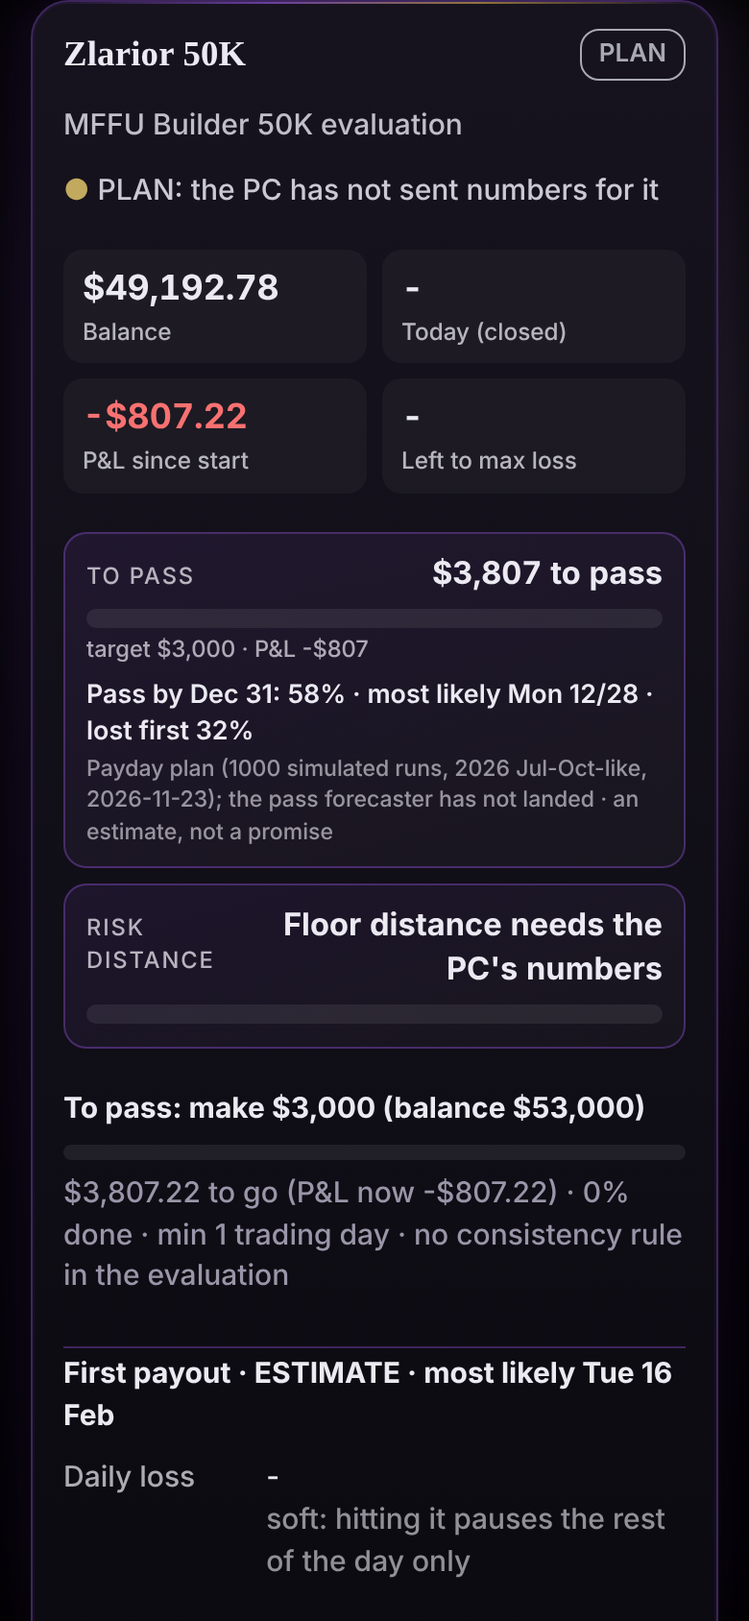
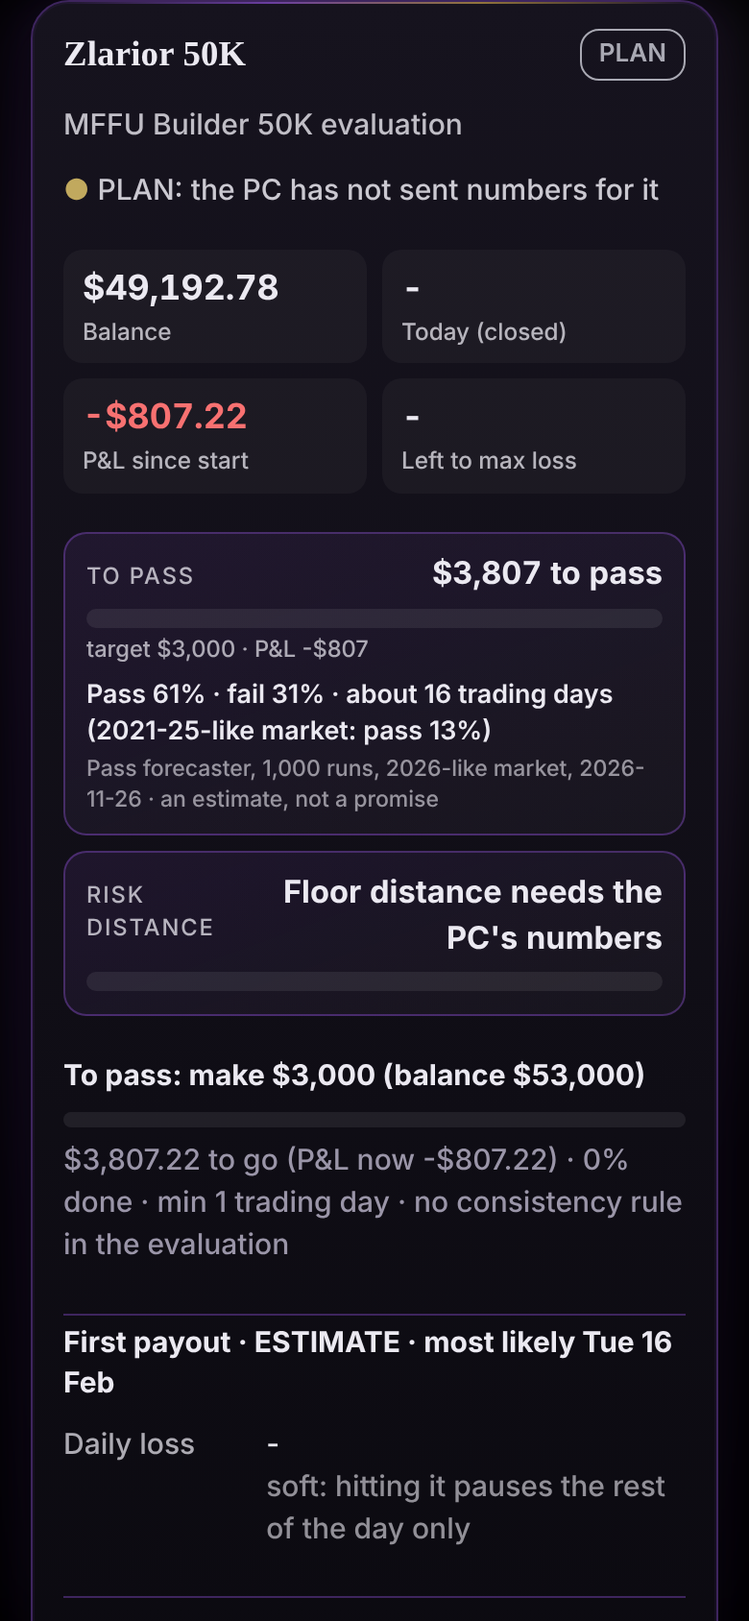
site5 on the real data: Strategy health reads research/health/bands.json (20-trade 2026 band p5/p50/p95 + the 2021-25 band + its live trades), the Money view reads research/forecast/forecast.json (pass / fail %, sessions, both markets) with size-aware account matching
- tools/build_money_health.py: from_research() normalises the study's shape (LIT / ATLAS; BLITZ stays off the Trading page)
- healthcore.js: a p5/p50/p95 band (cold = under halfway from p5 to the median, or 4 losses in a row), the band's newer live list wins
- moneyview.js: forecast rows matched by key / exact name / longest prefix of the same size and kind (Zlarior no longer grabs the 25K #2)
- tests: test_money_health 25/25 checks the published files against research/ (independent band count only while provisional)

Claude-Session: https://claude.ai/code/session_01EwJ4kRC4PSway2E9uGYpPe

Changed region(s): [[0.0615, 0.4005, 0.9231, 0.9242], [0.3385, 0.8934, 0.8923, 0.9858], [0.7385, 0.4005, 0.8615, 0.4313]]

diff --git a/tools/web_public/business/moneyview.js b/tools/web_public/business/moneyview.js
@@ -26,15 +26,34 @@
 
   /** the forecast row of one account: forecast.json {accounts: {key|name: {...}}} first, else payday.json rows[market].accounts */
   function forecastFor(a, fc, pd, market) {
-    const name = norm(a && a.name), key = String(a && a.key || '');
-    const pick = (rows) => {
+    const name = norm(a && a.name), key = String(a && a.key || ''), me = `${a && a.name || ''} ${a && a.plan || ''}`.toLowerCase();
+    const size = (t) => { const m = /(\d+)\s*k\b/.exec(t); return m ? m[1] : null; }, rapid = (t) => /rapid/.test(t);
+    const pick = (rows) => {                                 // best match: the key, the exact name, else the longest name prefix of the same size / kind
       if (!isObj(rows)) return null;
       if (key && isObj(rows[key])) return rows[key];
-      for (const r of Object.values(rows)) if (isObj(r) && norm(r.name) && (norm(r.name) === name || name.startsWith(norm(r.name)) || norm(r.name).startsWith(name))) return r;
-      return null;
+      let best = null, bs = 0;
+      for (const r of Object.values(rows)) {
+        if (!isObj(r)) continue;
+        const rn = norm(r.name), them = `${r.name || ''} ${r.plan || ''}`.toLowerCase().replace(/_/g, ' ');
+        if (!rn) continue;
+        if (size(me) && size(them) && size(me) !== size(them)) continue;
+        if (rapid(me) !== rapid(them)) continue;
+        if (r.stage && a && typeof a.funded === 'boolean' && (r.stage === 'funded') !== a.funded) continue;
+        const sc = rn === name ? 1000 : name.startsWith(rn) || rn.startsWith(name) ? 100 + rn.length : 0;
+        if (sc > bs) { bs = sc; best = r; }
+      }
+      return best;
     };
     const f = isObj(fc) ? pick(fc.accounts) : null;
     if (f) {
+      const mk = Object.keys(isObj(fc.markets) ? fc.markets : {}), main = isObj(f['2026-like']) ? '2026-like' : mk.find((k) => isObj(f[k])) || null;
+      if (main) {                                            // research/forecast/forecast.json (day-batch5): per market {pass_pct, fail_pct, pass_med_sessions, ...}
+        const M = f[main], refK = mk.find((k) => k !== main && isObj(f[k])) || null, R = refK ? f[refK] : null, pc = (v) => (num(v) === null ? null : num(v) / 100);
+        return { src: 'forecast', sample: !!fc.sample, market: main, ref: refK, made: String(fc.made || '').slice(0, 10), runs: num(fc.n_paths) || num(fc.runs),
+          p_pass: pc(M.pass_pct), p_fail: pc(M.fail_pct), days_med: num(M.pass_med_sessions), pass_med: null,
+          p_payout: pc(M.first_payout_pct), payout_sessions: num(M.first_payout_med_sessions), p_payout60: pc(M.first_payout_60_pct), p_lost: pc(M.lost_pct), payout_med: null, payout_usd: null,
+          ref_pass: R ? pc(R.pass_pct) : null, ref_payout: R ? pc(R.first_payout_pct) : null };
+      }
       return { src: 'forecast', sample: !!fc.sample, market: String(fc.market || ''), made: String(fc.made || '').slice(0, 10), runs: num(fc.runs) || num(f.runs),
         p_pass: num(f.p_pass), p_fail: num(f.p_fail), pass_med: f.pass_by || f.pass_med || null, days_med: num(f.days_med), days_p25: num(f.days_p25), days_p75: num(f.days_p75),
         p_payout: num(f.p_payout), payout_med: f.payout_by || f.payout_med || null, payout_usd: num(f.payout_usd) };
@@ -85,9 +104,9 @@
       const t = a.target, left = num(t.left), v = num(t.v), frac = num(t.progress);
       const f = F ? {
         line: F.src === 'forecast'
-          ? `Pass ${F.p_pass !== null ? Math.round(F.p_pass * 100) + '%' : '?'}${F.p_fail !== null ? ' · fail ' + Math.round(F.p_fail * 100) + '%' : ''}${F.days_med !== null ? ' · about ' + F.days_med + ' trading days' : ''}${F.pass_med ? ' · most likely ' + dayText(F.pass_med) : ''}`
+          ? `Pass ${F.p_pass !== null ? Math.round(F.p_pass * 100) + '%' : '?'}${F.p_fail !== null ? ' · fail ' + Math.round(F.p_fail * 100) + '%' : ''}${F.days_med !== null ? ' · about ' + Math.round(F.days_med) + ' trading days' : ''}${F.pass_med ? ' · most likely ' + dayText(F.pass_med) : ''}${F.ref && F.ref_pass !== null ? ` (${F.ref} market: pass ${Math.round(F.ref_pass * 100)}%)` : ''}`
           : `Pass by Dec 31: ${F.p_pass !== null ? Math.round(F.p_pass * 100) + '%' : '?'}${F.pass_med ? ' · most likely ' + dayText(F.pass_med) : ''}${F.p_fail !== null ? ' · lost first ' + Math.round(F.p_fail * 100) + '%' : ''}`,
-        src: F.src === 'forecast' ? `Pass forecaster${F.runs ? ', ' + F.runs.toLocaleString('en-US') + ' runs' : ''}${F.market ? ', ' + F.market : ''}${F.made ? ', ' + F.made : ''}` : `Payday plan (${F.runs || 1000} simulated runs, ${F.market}, ${F.made}); the pass forecaster has not landed`,
+        src: F.src === 'forecast' ? `Pass forecaster${F.runs ? ', ' + F.runs.toLocaleString('en-US') + ' runs' : ''}${F.market ? ', ' + F.market + (/like$/.test(F.market) ? ' market' : '') : ''}${F.made ? ', ' + F.made : ''}` : `Payday plan (${F.runs || 1000} simulated runs, ${F.market}, ${F.made}); the pass forecaster has not landed`,
         sample: F.sample, p: F.p_pass } : null;
       return { kind: 'pass', label: 'To pass', goal: v, left, frac: frac === null ? 0 : Math.max(0, Math.min(1, frac)), have: num(t.pnl),
         text: left === null ? 'Needs the PC\'s balance' : left <= 0 ? 'Target reached' : `${usd(left)} to pass`, sub: v !== null ? `target ${usd(v)} · P&L ${usd(t.pnl, true)}` : '', forecast: f, next: null };
@@ -98,7 +117,10 @@
       const prof = isObj(a.money) ? num(a.money.balance) : null;
       const left = plan !== null && prof !== null ? r2(Math.max(0, plan - prof)) : null;
       const ask = co && co.first_at_min ? min : max;
-      const f = F && F.payout_med ? { line: `First payout most likely ${dayText(F.payout_med)}${F.payout_usd !== null ? ' · about ' + usd(F.payout_usd) + ' to you' : ''}${F.p_payout !== null ? ' · ' + Math.round(F.p_payout * 100) + '% by Dec 31' : ''}`,
+      const f = F && F.src === 'forecast' && F.payout_sessions !== null && F.payout_sessions !== undefined
+        ? { line: `First payout ${F.p_payout !== null ? Math.round(F.p_payout * 100) + '%' : '?'} · about ${Math.round(F.payout_sessions)} trading days${F.p_lost !== null ? ' · lost first ' + Math.round(F.p_lost * 100) + '%' : ''}${F.ref && F.ref_payout !== null ? ` (${F.ref} market: ${Math.round(F.ref_payout * 100)}%)` : ''}`,
+          src: `Pass forecaster${F.runs ? ', ' + F.runs.toLocaleString('en-US') + ' runs' : ''}, ${F.market} market${F.made ? ', ' + F.made : ''}`, sample: F.sample, p: F.p_payout }
+        : F && F.payout_med ? { line: `First payout most likely ${dayText(F.payout_med)}${F.payout_usd !== null ? ' · about ' + usd(F.payout_usd) + ' to you' : ''}${F.p_payout !== null ? ' · ' + Math.round(F.p_payout * 100) + '% by Dec 31' : ''}`,
         src: F.src === 'forecast' ? 'Pass forecaster' : `Payday plan (${F.runs || 1000} simulated runs, ${F.market}, ${F.made})`, sample: F.sample, p: F.p_payout } : null;
       return { kind: 'payout', label: 'To payout', goal: plan, left, frac: plan && prof !== null ? Math.max(0, Math.min(1, prof / plan)) : 0, have: prof,
         text: prof === null ? 'Needs the PC\'s balance' : num(p.request_today) > 0 ? `Payout ready: ${usd(p.request_today)}` : `${usd(left)} to the ${usd(ask)} payout`,

diff --git a/tools/web_public/trading/healthcore.js b/tools/web_public/trading/healthcore.js
@@ -23,21 +23,33 @@
   }
 
   /** one bot's health: its last `window` live trades vs the backtest band of that many trades */
-  function botHealth(id, name, alias, band, rows) {
+  /** the band's own live trades (research/health/bands.json carries the newest real ones) win over the site's ledger when it has more */
+  function liveOf(band, rows) {
+    const L = band && Array.isArray(band.live) ? band.live.filter((x) => isObj(x) && num(x.r) !== null) : [];
+    if (L.length < rows.length) return rows;
+    return L.map((x, i) => ({ t: i, r: num(x.r), usd: num(x.usd), day: String(x.day || '').slice(0, 10) })).reverse();   // the file lists oldest first
+  }
+  function botHealth(id, name, alias, band, rows0) {
+    const rows = liveOf(band, rows0);
     const w = band ? num(band.window) || 10 : 10, last = rows.slice(0, w), n = last.length;
     const avg = n ? last.reduce((s, x) => s + x.r, 0) / n : null, win = n ? (last.filter((x) => x.r > 0).length / n) * 100 : null;
     const sum = last.reduce((s, x) => s + (x.usd || 0), 0);
     let streak = 0; for (const x of rows) { if (x.r < 0) streak++; else break; }
     const q = band && isObj(band.avg_r) ? band.avg_r : null, P = (k) => (q ? num(q[k]) : null);
     const sMax = band ? num(band.streak_p95) : null, sTyp = band ? num(band.streak_p75) : null;
+    // a band with only p5 / p50 / p95 (research/health/bands.json): 'cold' = the lower half of the way from the worst 5% to the median,
+    // or 4+ losses in a row; 'normal' = anything else inside the band
+    const lowQ = q && num(q.p25) === null && num(q.p5) !== null && num(q.p50) !== null ? (num(q.p5) + num(q.p50)) / 2 : null;
     let word, level, why;
     if (!q) { word = 'no band yet'; level = 'none'; why = 'The backtest band for this bot has not been measured yet.'; }
     else if (n < MIN_N) { word = 'too few trades'; level = 'none'; why = `Only ${n} live trade${n === 1 ? '' : 's'} so far: at least ${MIN_N} are needed before saying anything (the band is for ${w}).`; }
     else if (avg < P('p5') || (sMax !== null && streak > sMax)) { word = 'outside the band'; level = 'bad'; why = avg < P('p5') ? `The last ${n} average ${fmtR(avg)} a trade, under the backtest's worst 5% of ${w}-trade stretches (${fmtR(P('p5'))}).` : `${streak} losses in a row: longer than 95% of the backtest's streaks (${sMax}).`; }
     else if (avg > P('p95')) { word = 'outside the band'; level = 'hot'; why = `The last ${n} average ${fmtR(avg)}, above the backtest's best 5% (${fmtR(P('p95'))}): luck runs out, do not size up.`; }
-    else if (avg < P('p25') || (sTyp !== null && streak > sTyp && streak >= 3)) { word = 'cold streak'; level = 'warn'; why = avg < P('p25') ? `The last ${n} average ${fmtR(avg)}: in the band but in its weaker quarter (under ${fmtR(P('p25'))}). The backtest had stretches like this.` : `${streak} losses in a row: inside the backtest's range (its 95% mark is ${sMax}).`; }
-    else { word = 'normal'; level = 'ok'; why = `The last ${n} average ${fmtR(avg)} a trade, inside the backtest's middle half (${fmtR(P('p25'))} to ${fmtR(P('p75'))}).`; }
-    return { id, name, alias, word, level, why, n, window: w, avg, win, usd: n ? sum : null, streak, band: q ? { p5: P('p5'), p25: P('p25'), p50: P('p50'), p75: P('p75'), p95: P('p95') } : null,
+    else if (lowQ !== null && (avg < lowQ || streak >= 4)) { word = 'cold streak'; level = 'warn'; why = avg < lowQ ? `The last ${n} average ${fmtR(avg)}: inside the band but in its weak part (under ${fmtR(lowQ)}, halfway from the worst 5% to the median ${fmtR(P('p50'))}). The backtest had stretches like this.` : `${streak} losses in a row, the average still inside the band.`; }
+    else if (lowQ === null && (avg < P('p25') || (sTyp !== null && streak > sTyp && streak >= 3))) { word = 'cold streak'; level = 'warn'; why = avg < P('p25') ? `The last ${n} average ${fmtR(avg)}: in the band but in its weaker quarter (under ${fmtR(P('p25'))}). The backtest had stretches like this.` : `${streak} losses in a row: inside the backtest's range (its 95% mark is ${sMax}).`; }
+    else { word = 'normal'; level = 'ok'; why = lowQ !== null ? `The last ${n} average ${fmtR(avg)} a trade, inside the backtest's band (median ${fmtR(P('p50'))}).` : `The last ${n} average ${fmtR(avg)} a trade, inside the backtest's middle half (${fmtR(P('p25'))} to ${fmtR(P('p75'))}).`; }
+    const ref = band && isObj(band.ref) && num(band.ref.p5) !== null ? { span: String(band.ref.span || ''), p5: num(band.ref.p5), p50: num(band.ref.p50), p95: num(band.ref.p95) } : null;
+    return { id, name, alias, word, level, why, n, window: w, avg, win, usd: n ? sum : null, streak, ref, band: q ? { p5: P('p5'), p25: P('p25'), p50: P('p50'), p75: P('p75'), p95: P('p95') } : null,
       bandN: band ? num(band.n_backtest) : null, span: band ? String(band.span || '') : '', last: rows[0] ? rows[0].day : null,
       line: n ? `Last ${n} live: ${fmtR(avg)} avg · win ${Math.round(win)}% · ${usd(sum)}` : 'No live trade yet' };
   }
@@ -46,7 +58,7 @@
   function health(bands, file) {
     const B = isObj(bands) && isObj(bands.bots) ? bands.bots : {};
     return { bots: BOTS.map(([id, name, alias]) => botHealth(id, name, alias, isObj(B[id]) ? B[id] : null, liveTrades(file, id))),
-      src: isObj(bands) ? String(bands.src || '') : '', made: isObj(bands) ? String(bands.made || '').slice(0, 10) : '', provisional: !!(isObj(bands) && bands.provisional), sample: !!(isObj(bands) && bands.sample) };
+      window: isObj(bands) ? num(bands.window) : null, src: isObj(bands) ? String(bands.src || '') : '', made: isObj(bands) ? String(bands.made || '').slice(0, 10) : '', provisional: !!(isObj(bands) && bands.provisional), sample: !!(isObj(bands) && bands.sample) };
   }
 
   const api = { health, liveTrades, BOTS, MIN_N, fmtR };

diff --git a/tools/web_public/trading/health.js b/tools/web_public/trading/health.js
@@ -12,11 +12,12 @@
     if (!b.band) { box.classList.add('none'); box.setAttribute('aria-label', 'no band yet'); return box; }
     const lo = Math.min(b.band.p5, b.avg ?? b.band.p5) - 0.15, hi = Math.max(b.band.p95, b.avg ?? b.band.p95) + 0.15, x = (v) => ((v - lo) / (hi - lo)) * 100 + '%';
     const full = el('i', 'full'); full.style.left = x(b.band.p5); full.style.right = 'calc(100% - ' + x(b.band.p95) + ')'; box.append(full);
-    const mid = el('i', 'mid'); mid.style.left = x(b.band.p25); mid.style.right = 'calc(100% - ' + x(b.band.p75) + ')'; box.append(mid);
+    if (b.band.p25 !== null && b.band.p75 !== null) { const mid = el('i', 'mid'); mid.style.left = x(b.band.p25); mid.style.right = 'calc(100% - ' + x(b.band.p75) + ')'; box.append(mid); }
+    else if (b.band.p50 !== null) { const md = el('i', 'med'); md.style.left = x(b.band.p50); box.append(md); }
     const zero = el('i', 'zero'); zero.style.left = x(0); box.append(zero);
     if (b.avg !== null) { const m = el('i', 'live ' + b.level); m.style.left = x(b.avg); box.append(m); }
     box.setAttribute('aria-label', `backtest band ${H.fmtR(b.band.p5)} to ${H.fmtR(b.band.p95)}, live ${H.fmtR(b.avg)}`);
-    const sc = el('div', 'hb-sc'); sc.append(el('span', null, H.fmtR(b.band.p5)), el('span', null, 'middle half ' + H.fmtR(b.band.p25) + ' to ' + H.fmtR(b.band.p75)), el('span', null, H.fmtR(b.band.p95)));
+    const sc = el('div', 'hb-sc'); sc.append(el('span', null, H.fmtR(b.band.p5)), el('span', null, b.band.p25 !== null ? 'middle half ' + H.fmtR(b.band.p25) + ' to ' + H.fmtR(b.band.p75) : 'median ' + H.fmtR(b.band.p50)), el('span', null, H.fmtR(b.band.p95)));
     const w = el('div'); w.append(box, sc); return w;
   }
   async function draw() {
@@ -27,11 +28,12 @@
       const row = el('div', 'hb ' + b.level); row.dataset.bot = b.id; row.dataset.word = b.word;
       const top = el('div', 'hb-top'); top.append(el('b', null, b.name), el('span', 'hb-w ' + b.level, b.word.toUpperCase())); row.append(top);
       row.append(el('p', 'hb-line', b.line), bandBar(b), el('p', 'hb-why', b.why));
+      if (b.ref) row.append(el('p', 'hb-ref', `In a ${b.ref.span}-like market the band was ${H.fmtR(b.ref.p5)} to ${H.fmtR(b.ref.p95)} (median ${H.fmtR(b.ref.p50)}).`));
       list.append(row);
     }
     const s = document.getElementById('healthSrc');
-    s.textContent = (M.sample ? 'SAMPLE · ' : '') + (M.provisional ? 'Band: PROVISIONAL, from the 2026 backtest trades in this page\'s file (the health study has not landed). ' : 'Band: ' + M.src + (M.made ? ' (' + M.made + '). ' : '. '))
-      + 'Live = the PC\'s real MFFU trades. Words: normal = inside the middle half; cold streak = the weaker quarter or a longer losing run; outside the band = beyond the backtest\'s 5% tails. Research only: nothing here stops or changes a bot.';
+    s.textContent = (M.sample ? 'SAMPLE · ' : '') + (M.provisional ? 'Band: PROVISIONAL, from the 2026 backtest trades in this page\'s file (the health study has not landed). ' : 'Band: the health study (' + M.src + (M.made ? ', ' + M.made : '') + '), every ' + (M.window || 10) + '-trade stretch of the 2026 backtest. ')
+      + 'Live = the PC\'s real MFFU trades. Words: normal = inside the band; cold streak = its weak part or a long losing run; outside the band = beyond the backtest\'s 5% tails. Research only: nothing here stops or changes a bot.';
     card.dataset.ready = '1';
   }
   if (document.readyState === 'loading') document.addEventListener('DOMContentLoaded', draw); else draw();

diff --git a/tools/web_public/trading/index.html b/tools/web_public/trading/index.html
@@ -36,7 +36,7 @@
 <script src="../olympus/gate-nav.js?v=g14" defer></script>
 <link rel="prefetch" href="../olympus/sfx.js?v=s4" as="script"><!-- the sound engine (32 KB gzipped) is not in the deferred chain the page waits on: olympus.js loads it after the page has loaded (its sound bed) or on the first cue -->
 <script>(function () { var r = document.documentElement.style; r.setProperty('--oly-accent', '#c8a24a'); r.setProperty('--oly-accent-rgb', '200, 162, 74'); })();</script>
-<link rel="stylesheet" href="trading.css?v=7">
+<link rel="stylesheet" href="trading.css?v=8">
 <link rel="stylesheet" href="../nqdeep.css?v=2">
 <link rel="stylesheet" href="../nq/nqdesk.css?v=11">
 <link rel="stylesheet" href="../nq/payready.css?v=2">
@@ -83,7 +83,7 @@
   <!-- STRATEGY HEALTH (day-site5): each bot's live results vs its backtest band, in plain words (trading/health.js + healthcore.js) -->
   <section class="ag-card card" id="healthCard" aria-labelledby="healthH">
     <div class="row"><h2 id="healthH">Strategy health</h2></div>
-    <p class="note">Is each bot trading like its backtest? Its last 10 real trades against every 10-trade stretch of the backtest.</p>
+    <p class="note">Is each bot trading like its backtest? Its newest real trades against every stretch of the same length in its 2026 backtest.</p>
     <div id="healthList" class="hlist"><p class="note">Loading...</p></div>
     <p class="note hsrc" id="healthSrc"></p>
   </section>
@@ -203,8 +203,8 @@
 <script src="../business/payoutcoach.js?v=4"></script>
 <script src="../nqdeep.js?v=1" defer></script>
 <script type="module" src="trading.js?v=20" async></script><!-- async: runs as soon as it and its data are in, not after every deferred kit script (perf) -->
-<script src="healthcore.js?v=1" defer></script>
-<script src="health.js?v=1" defer></script>
+<script src="healthcore.js?v=2" defer></script>
+<script src="health.js?v=3" defer></script>
 <script src="panelfx.js?v=2" data-look="night" data-burst="1" defer></script><!-- owner 2026-11-20: 3D + effects, after the content -->
 </body>
 </html>

diff --git a/tools/web_public/trading/trading.css b/tools/web_public/trading/trading.css
@@ -176,3 +176,5 @@ main#app .ag-card .note { font-size: 0.9375rem; }
 .hb-bar i.live.ok { background: #77db89; box-shadow: 0 0 10px rgba(119,219,137,.8); } .hb-bar i.live.bad { background: #ef4444; box-shadow: 0 0 10px rgba(239,68,68,.8); }
 .hb-sc { display: flex; justify-content: space-between; font-size: .7rem; opacity: .65; font-variant-numeric: tabular-nums; }
 .hsrc { font-size: .74rem; opacity: .7; }
+.hb-bar i.med { width: 2px; margin-left: -1px; top: 2px; bottom: 2px; background: rgba(218,203,240,.85); }
+.hb-ref { margin: 4px 0 0; font-size: .76rem; opacity: .6; }

diff --git a/tools/web_public/business/mffu.html b/tools/web_public/business/mffu.html
@@ -127,7 +127,7 @@
 <script src="mffucenter.js?v=3"></script>
 <script src="../edge_chip.js?v=1"></script>
 <script src="../nqdeep.js?v=1"></script>
-<script src="moneyview.js?v=1"></script>
+<script src="moneyview.js?v=2"></script>
 <script src="mffu.js?v=7"></script>
 <script src="../olympus/nqfx.js?v=n5" defer></script>
 <script src="../trading/panelfx.js?v=2" data-look="night" defer></script><!-- owner 2026-11-20: 3D + effects, after the content -->

diff --git a/tests/test_money_health.py b/tests/test_money_health.py
@@ -76,21 +76,35 @@ o.h = { normal: w([1, -1, 2, 0.5, 1, -1, 1.5, 0.2, 0.8, 1]), cold: w([1, -1, -1,
   hot: w([3, 4, 2, 3, 2.5, 1, 3, 2, 4, 3]), few: w([1, -1]), streak: w([2, 3, 2, 1.5, 2, -1, -1, -1, -1, -1, -1, -1]), noband: H.health({}, mk([1, 1, 1, 1, 1])).bots[0].word };
 o.real = H.health(bands, file).bots.map((b) => [b.id, b.word, b.n]);
 o.liveOnly = H.liveTrades({ trades: [{ bot: 'LIT', src: 'backtest', r: 1, t: 1 }, { bot: 'LIT', src: 'paper', r: 1, t: 2 }, { bot: 'LIT', src: 'live', r: -1, t: 3 }, { bot: 'ATLAS', src: 'live', r: 1, t: 4 }] }, 'lit').length;
-// the band, counted again here (independent of the builder)
-o.indep = ['lit', 'atlas'].map((bot) => {
+// the real published files (research/health/bands.json, research/forecast/forecast.json via the builder) or the provisional band
+const FCR = (() => { try { return JSON.parse(fs.readFileSync('%(fcpub)s', 'utf8')); } catch (e) { return null; } })();
+const acc = [{ key: 'x', name: 'Zlarior 50K', plan: 'MFFU Builder 50K evaluation', funded: false }, { key: 'y', name: 'Zlarior 25K #2', plan: 'MFFU Builder 25K evaluation', funded: false },
+  { key: 'r', name: 'Rapid EOD 25K', plan: 'MFFU Rapid EOD 25K evaluation', funded: false }, { key: 'a', name: 'ATLAS 25K', plan: 'MFFU Builder 25K sim funded', funded: true }];
+o.fcReal = FCR ? acc.map((a) => { const F = MV.forecastFor(a, FCR, pd); return F && [F.src, F.p_pass, F.days_med, F.p_payout, F.payout_sessions, F.ref_pass]; }) : null;
+o.fcLine = FCR ? MV.gauge({ ...evalA, plan: 'MFFU Builder 50K evaluation', funded: false }, { today: '2026-11-26', payday: pd, forecast: FCR }).forecast : null;
+o.fcFund = FCR ? MV.gauge({ ...funded({ coach: coach({}) }), plan: 'MFFU Builder 25K sim funded', funded: true }, { today: '2026-11-26', payday: pd, forecast: FCR }).forecast : null;
+o.fcRaw = FCR ? Object.fromEntries(Object.entries(FCR.accounts).map(([k, v]) => [k, v['2026-like'] || null])) : null;
+o.bandsProv = !!bands.provisional; o.bandsWin = bands.window;
+o.bandsPub = ['lit', 'atlas'].map((b) => [bands.bots[b].n_backtest, bands.bots[b].avg_r.p5, bands.bots[b].avg_r.p50, bands.bots[b].avg_r.p95, (bands.bots[b].live || []).length]);
+o.realH = H.health(bands, file).bots.map((b) => [b.id, b.word, b.n, b.ref ? b.ref.span : null]);
+o.indep = bands.provisional ? ['lit', 'atlas'].map((bot) => {
   const rs = file.trades.filter((t) => String(t.bot).toLowerCase() === bot && t.src === 'backtest' && typeof t.r === 'number').sort((a, b) => a.t - b.t).map((t) => t.r);
   const av = []; for (let i = 0; i + 10 <= rs.length; i++) av.push(rs.slice(i, i + 10).reduce((s, x) => s + x, 0) / 10);
   av.sort((a, b) => a - b); const q = (p) => { const k = (av.length - 1) * p; const lo = Math.floor(k), hi = Math.min(lo + 1, av.length - 1); return av[lo] + (av[hi] - av[lo]) * (k - lo); };
   return [rs.length, Math.round(q(0.05) * 1000) / 1000, Math.round(q(0.5) * 1000) / 1000, Math.round(q(0.95) * 1000) / 1000];
-});
-o.bandsPub = ['lit', 'atlas'].map((b) => [bands.bots[b].n_backtest, bands.bots[b].avg_r.p5, bands.bots[b].avg_r.p50, bands.bots[b].avg_r.p95]);
+}) : null;
+// a p5 / p50 / p95 band (the health study's shape): cold = under halfway from p5 to the median
+const b3 = { bots: { lit: { window: 20, avg_r: { p5: 0.14, p50: 0.61, p95: 1.54 } } } };
+const w3 = (rs) => { const b = H.health(b3, mk(rs)).bots[0]; return b.word; };
+o.h3 = [w3([1, 0.5, 0.8, 0.6, 0.7]), w3([0.3, 0.2, 0.4, 0.3, 0.2]), w3([-1, -1, 0.5, -0.5, 0.2]), w3([3, 2, 2.5, 2, 3]), w3([2, 2, 1, -1, -1, -1, -1])];
+o.bandLive = H.health({ bots: { lit: { window: 20, avg_r: { p5: 0.14, p50: 0.61, p95: 1.54 }, live: [{ day: '2026-11-01', r: 1 }, { day: '2026-11-02', r: 1 }, { day: '2026-11-03', r: 1 }] } } }, mk([1])).bots[0].n;
 console.log(JSON.stringify(o));
 """
 
 
 def node():
     js = NODE % {"mv": os.path.join(PUB, "business", "moneyview.js"), "hc": os.path.join(PUB, "trading", "healthcore.js"), "pd": os.path.join(PUB, "business", "payday.json"),
-                 "fc": json.dumps(FC_FIXTURE), "tr": os.path.join(PUB, "trading", "trades.json"), "bands": os.path.join(PUB, "trading", "bands.json")}
+                 "fc": json.dumps(FC_FIXTURE), "tr": os.path.join(PUB, "trading", "trades.json"), "bands": os.path.join(PUB, "trading", "bands.json"), "fcpub": os.path.join(PUB, "business", "forecast.json")}
     r = subprocess.run(["node", "-e", js], capture_output=True, text=True, timeout=60)
     try:
         o = json.loads(r.stdout.strip().splitlines()[-1])
@@ -122,8 +136,30 @@ def node():
           h["normal"][0] == "normal" and h["cold"][0:2] == ["cold streak", "warn"] and h["out"][0:2] == ["outside the band", "bad"] and h["hot"][0:2] == ["outside the band", "hot"]
           and h["few"][0] == "too few trades" and h["streak"][0] == "outside the band" and h["streak"][4] == 7 and o["h"]["noband"] == "no band yet", h)
     check("n. health counts only the real (live) trades of that bot", o["liveOnly"] == 1, o["liveOnly"])
-    check("n. today's real health: LIT 2 and ATLAS 3 live trades -> 'too few trades' (honest)", o["real"] == [["lit", "too few trades", 2], ["atlas", "too few trades", 3]], o["real"])
-    check("n. the published band = an independent count of every 10-trade backtest stretch (n, p5, p50, p95)", all(a[0] == b[0] and all(abs(x - y) <= 0.002 for x, y in zip(a[1:], b[1:])) for a, b in zip(o["indep"], o["bandsPub"])), (o["indep"], o["bandsPub"]))
+    research = os.path.join(ROOT, "research", "health", "bands.json")
+    if os.path.exists(research):
+        R = json.load(open(research, encoding="utf-8"))
+        want = [[R["bots"][k]["bands"]["2026"]["trades"], R["bots"][k]["bands"]["2026"]["p5"], R["bots"][k]["bands"]["2026"]["p50"], R["bots"][k]["bands"]["2026"]["p95"], len(R["bots"][k]["live"]["trades"])] for k in ("LIT", "ATLAS")]
+        check("n. the published band = research/health/bands.json (2026: trades, p5 / p50 / p95, its live trades), not provisional", not o["bandsProv"] and o["bandsPub"] == want and o["bandsWin"] == R["window"], (o["bandsPub"], want))
+        zones = [R["bots"][k]["live"]["zone"] for k in ("LIT", "ATLAS")]
+        check("n. today's real health agrees with the study: < 5 live trades = 'too few trades' (LIT 2, ATLAS 4), the 2021-25 band rides along",
+              [x[1] for x in o["realH"]] == ["too few trades" if "too few" in z else x[1] for z, x in zip(zones, o["realH"])] and [x[2] for x in o["realH"]] == [r[4] for r in want]
+              and all(x[3] == "2021-25" for x in o["realH"]), (o["realH"], zones))
+    else:
+        check("n. the published band = an independent count of every 10-trade backtest stretch (n, p5, p50, p95)", o["bandsProv"] and o["indep"] is not None
+              and all(a[0] == b[0] and all(abs(x - y) <= 0.002 for x, y in zip(a[1:4], b[1:4])) for a, b in zip(o["indep"], o["bandsPub"])), (o["indep"], o["bandsPub"]))
+    check("n. a p5 / p50 / p95 band: normal, cold (under halfway to the median), outside (bad), outside (hot), cold (4 losses in a row); the band's own live list wins when longer",
+          o["h3"] == ["normal", "cold streak", "outside the band", "outside the band", "cold streak"] and o["bandLive"] == 3, (o["h3"], o["bandLive"]))
+    fr = os.path.join(ROOT, "research", "forecast", "forecast.json")
+    if os.path.exists(fr):
+        raw = o["fcRaw"]
+        check("n. the real forecast (research/forecast/forecast.json): each card finds ITS row (50K -> zlarior, 25K #2 -> fresh25, Rapid -> rapid1, ATLAS funded -> atlas)",
+              o["fcReal"] and [x[1] for x in o["fcReal"][:3]] == [round(raw[k]["pass_pct"] / 100, 6) if raw[k] else None for k in ("zlarior", "fresh25", "rapid1")]
+              and all(x[0] == "forecast" for x in o["fcReal"]) and abs(o["fcReal"][3][3] - raw["atlas"]["first_payout_pct"] / 100) < 1e-9 and o["fcReal"][3][4] == raw["atlas"]["first_payout_med_sessions"], (o["fcReal"], raw))
+        check("n. the real forecast lines: 'Pass 61% · fail 31% · about 16 trading days (2021-25-like market: pass 13%)'; ATLAS 'First payout 82% · about 22 trading days · lost first 10%'",
+              o["fcLine"]["line"].startswith("Pass ") and "trading days" in o["fcLine"]["line"] and "2021-25-like market: pass" in o["fcLine"]["line"] and "Pass forecaster" in o["fcLine"]["src"]
+              and o["fcFund"]["line"].startswith("First payout ") and "lost first" in o["fcFund"]["line"], (o["fcLine"], o["fcFund"]))
+
 
 
 class _Quiet(http.server.SimpleHTTPRequestHandler):
@@ -150,7 +186,7 @@ const [, , BASE, SHOTS] = process.argv; const out = {};
     ({ p, ctx } = await page('/trading/'));
     await p.waitForFunction(() => document.getElementById('healthCard') && document.getElementById('healthCard').dataset.ready === '1', null, { timeout: 30000 });
     out.health = await p.evaluate(() => ({ rows: [...document.querySelectorAll('#healthList .hb')].map((r) => r.dataset.bot + ':' + r.dataset.word), src: document.getElementById('healthSrc').textContent,
-      bars: document.querySelectorAll('#healthList .hb-bar i.mid').length, live: document.querySelectorAll('#healthList .hb-bar i.live').length, wide: document.documentElement.scrollWidth > innerWidth + 1 }));
+      bars: document.querySelectorAll('#healthList .hb-bar i.mid, #healthList .hb-bar i.med').length, live: document.querySelectorAll('#healthList .hb-bar i.live').length, wide: document.documentElement.scrollWidth > innerWidth + 1 }));
     if (SHOTS) { await p.evaluate(() => { const e = document.getElementById('healthCard'); window.scrollTo(0, e.getBoundingClientRect().top + scrollY - 10); }); await p.waitForTimeout(500); await p.screenshot({ path: SHOTS + '/12_strategy_health.png' }); }
     await ctx.close();
   } catch (e) { out.fatal = String(e && e.stack || e).slice(0, 500); }
@@ -187,8 +223,8 @@ def browser():
           any("Payday plan" in m["fc"] or "forecaster" in m["fc"] for m in M.get("mv", [])) and (not any(m["g"] == "payout" for m in M.get("mv", [])) or any(m["next"] for m in M["mv"] if m["g"] == "payout"))
           and M.get("wide") is False, M)
     T = o.get("health") or {}
-    check("b. Trading: the Strategy health card, LIT + ATLAS 'too few trades' today, the band drawn with the live marker, the PROVISIONAL source said",
-          T.get("rows") == ["lit:too few trades", "atlas:too few trades"] and T.get("bars") == 2 and T.get("live") == 2 and "PROVISIONAL" in T.get("src", "") and T.get("wide") is False, T)
+    check("b. Trading: the Strategy health card, LIT + ATLAS 'too few trades' today, the band drawn with the live marker, its source said",
+          T.get("rows") == ["lit:too few trades", "atlas:too few trades"] and T.get("bars") == 2 and T.get("live") == 2 and ("PROVISIONAL" in T.get("src", "") or "health study" in T.get("src", "")) and T.get("wide") is False, T)
 
 
 def main():

diff --git a/tools/build_money_health.py b/tools/build_money_health.py
@@ -69,10 +69,32 @@ def band_of(rs: list[float], window: int) -> dict | None:
             "streak_p75": int(round(pct(streaks, 75) or 0)), "streak_p95": int(round(pct(streaks, 95) or 0))}
 
 
+def from_research(src: dict) -> dict:
+    """research/health/bands.json (day-batch5: {made, window, bots: {LIT|ATLAS|BLITZ: {bands: {"2026"|"2021-25": {p5, p50, p95, n_windows,
+    trades}}, live: {n, trades: [{day, r, usd}], mean_r, zone}}}}) -> the page's shape (lit / atlas only: BLITZ never on the Trading page).
+    The 2026 band is the one the words use; the 2021-25 band rides along as a second line."""
+    w = int(src.get("window") or WINDOW)
+    out = {"v": 2, "made": str(src.get("made") or "")[:10], "provisional": False, "window": w, "src": "research/health/bands.json", "bots": {}}
+    for k, b in (src.get("bots") or {}).items():
+        bot = str(k).lower()
+        if bot not in NAMES or not isinstance(b, dict):
+            continue
+        bands_ = b.get("bands") or {}
+        main, ref = bands_.get("2026") or {}, bands_.get("2021-25") or {}
+        if not all(isinstance(main.get(q), (int, float)) for q in ("p5", "p50", "p95")):
+            continue
+        live = b.get("live") or {}
+        out["bots"][bot] = {"name": NAMES[bot], "window": w, "avg_r": {q: main[q] for q in ("p5", "p50", "p95")}, "n_backtest": main.get("trades"), "n_windows": main.get("n_windows"),
+                            "span": "2026", "ref": {"span": "2021-25", **{q: ref.get(q) for q in ("p5", "p50", "p95")}} if ref else None,
+                            "live": [{"day": str(t.get("day") or "")[:10], "r": t.get("r"), "usd": t.get("usd")} for t in live.get("trades") or [] if isinstance(t, dict) and isinstance(t.get("r"), (int, float))],
+                            "zone": str(live.get("zone") or "")[:80]}
+    return out
+
+
 def bands() -> dict:
     src = _load(BANDS_SRC)
     if isinstance(src, dict) and isinstance(src.get("bots"), dict):
-        return {**src, "src": "research/health/bands.json", "provisional": False}
+        return from_research(src)
     file = _load(TRADES) or {}
     out = {"v": 1, "made": str(file.get("built_from") or "")[:10], "provisional": True, "window": WINDOW,
            "src": "PROVISIONAL: measured on the backtest trades in trading/trades.json (research/health/bands.json has not landed)", "bots": {}}
